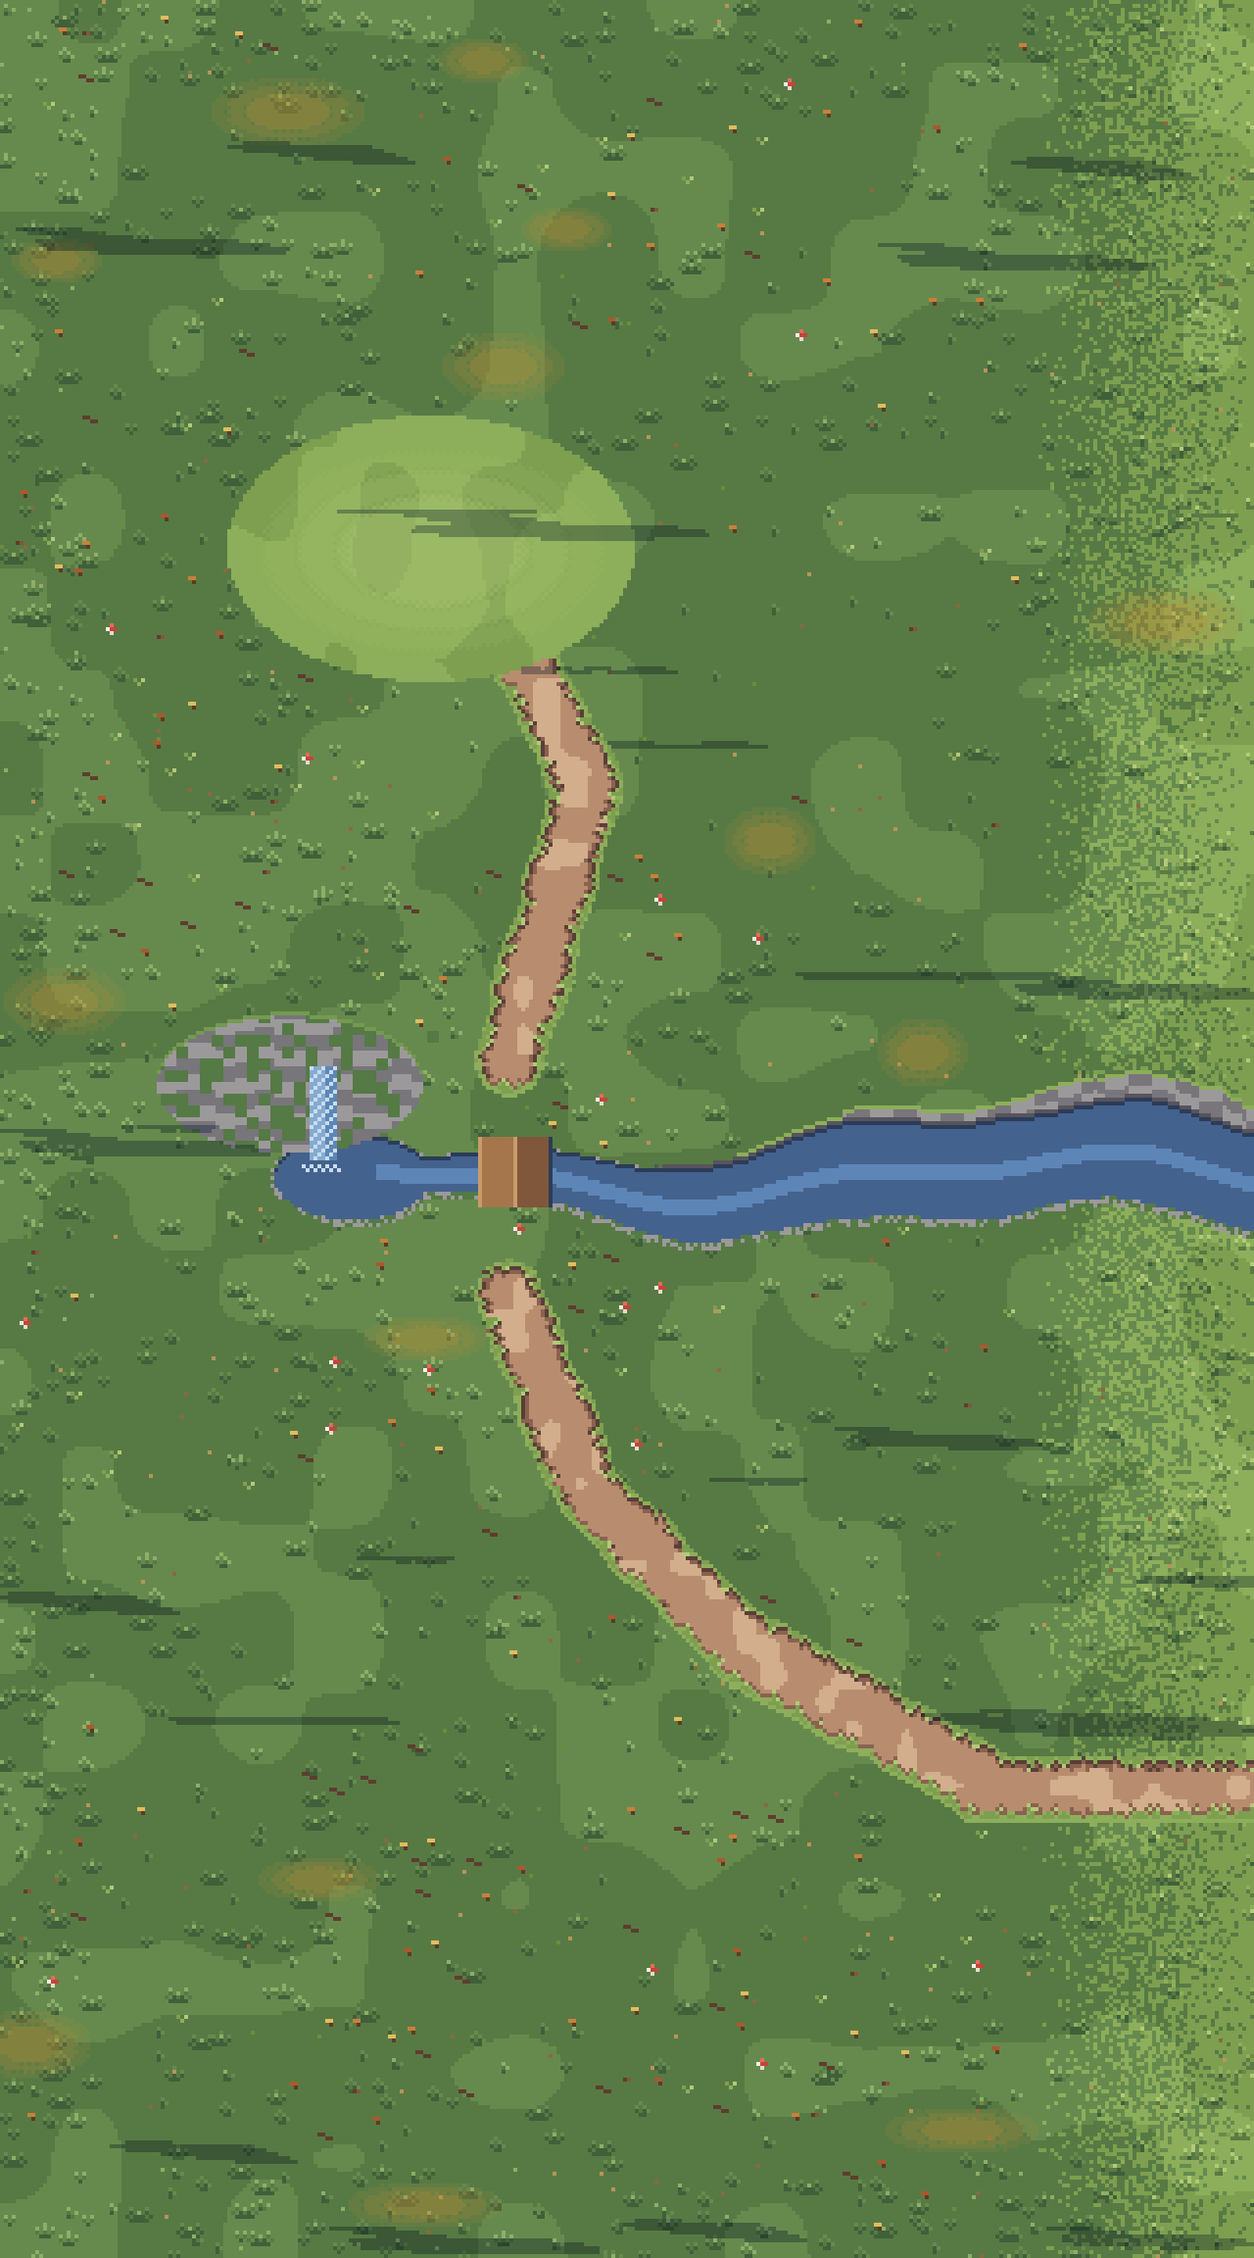
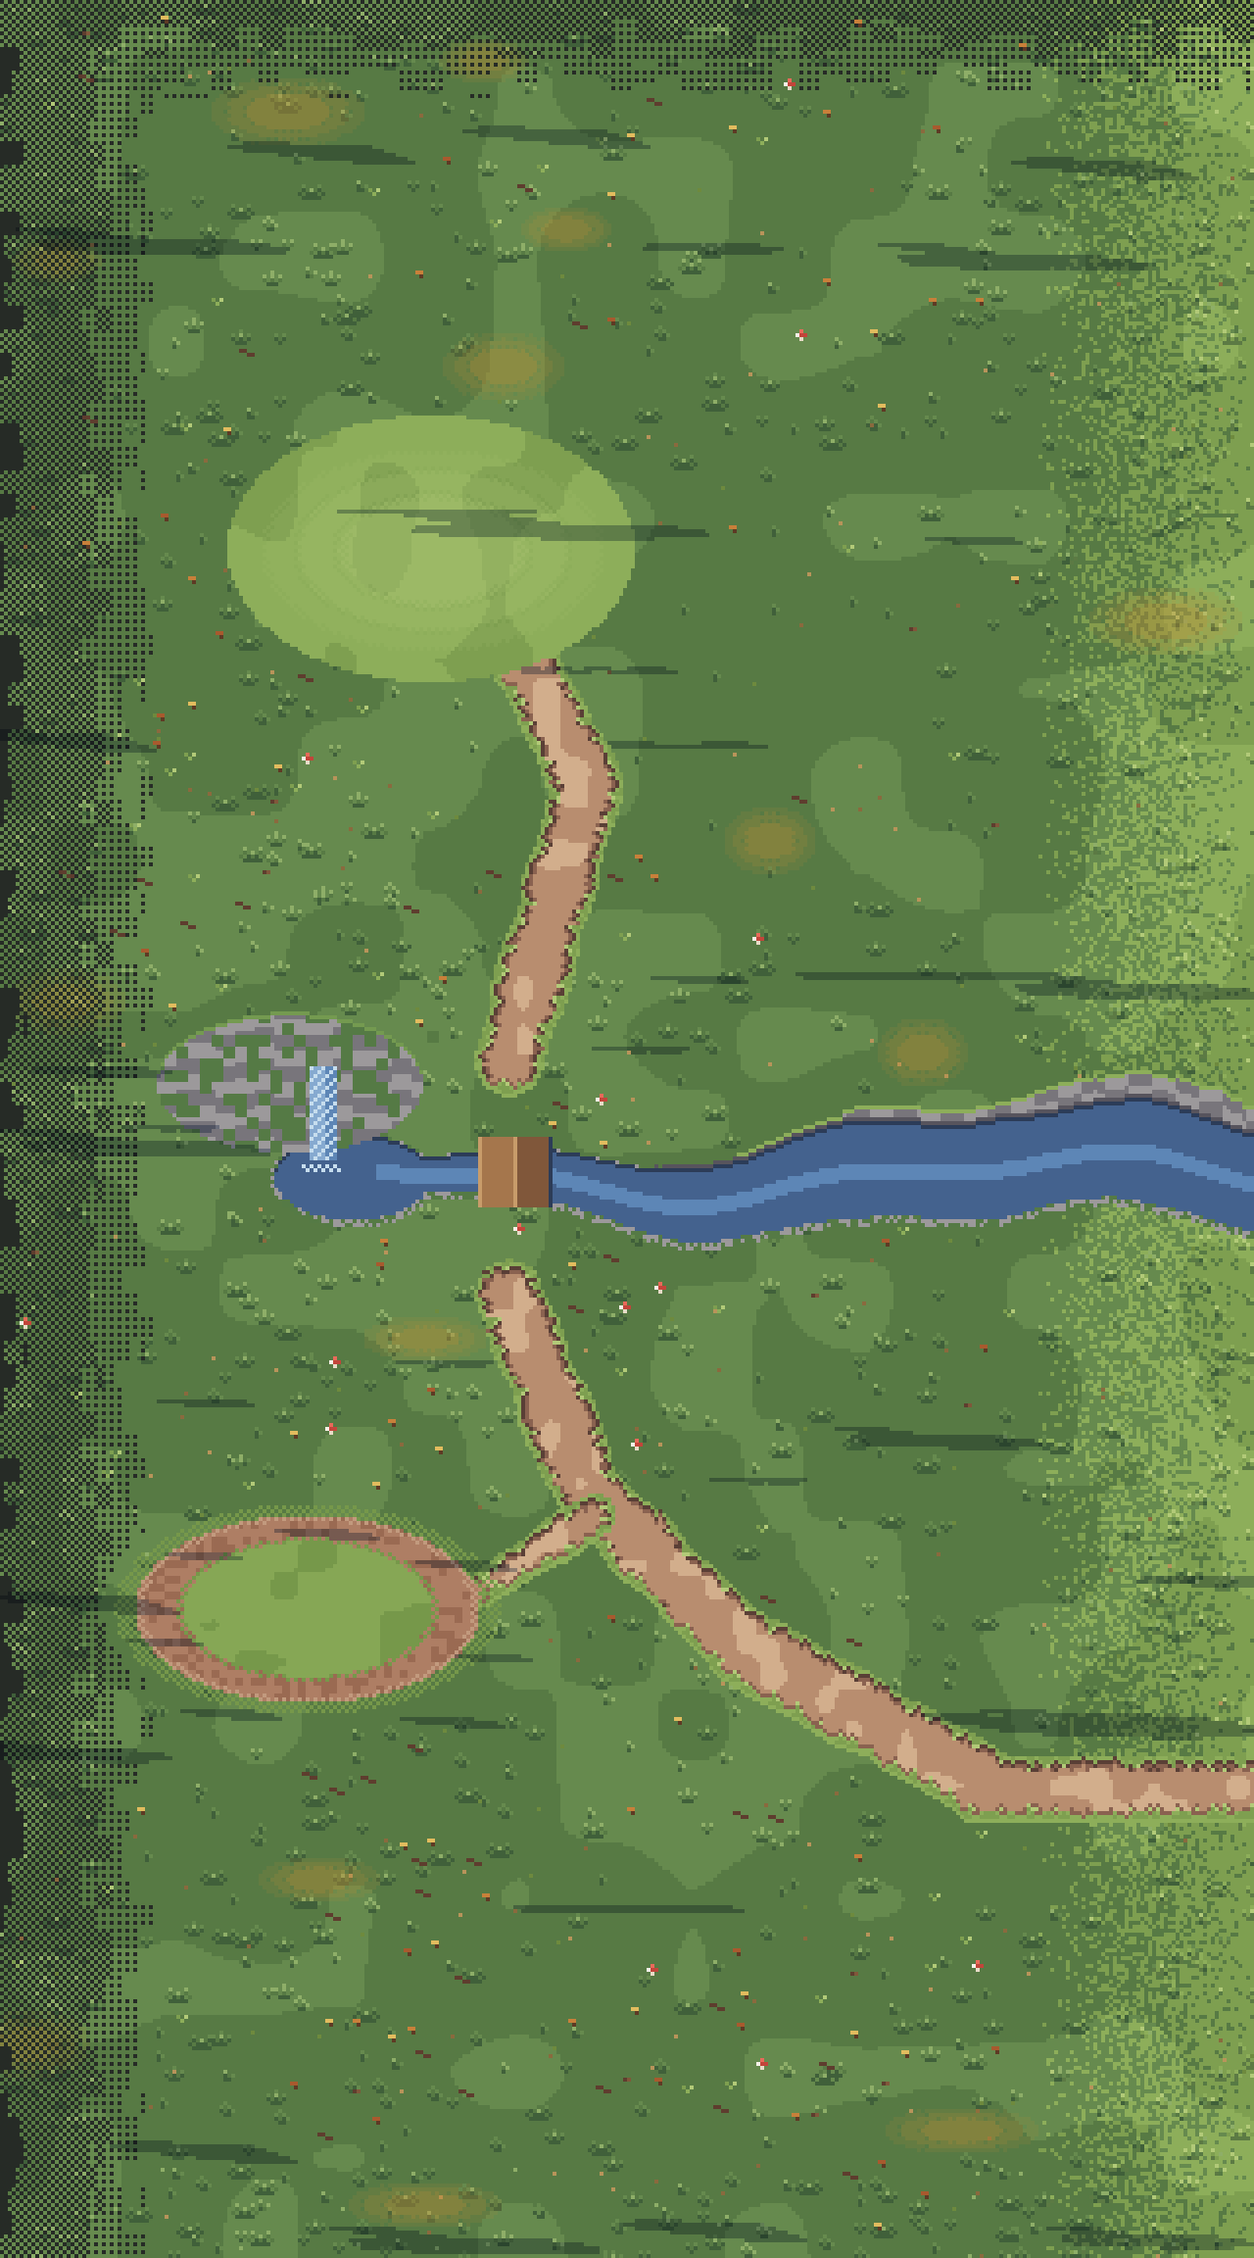
Woodland closes in: dithered forest shade at the outer edges, stumps and pines, and a stone circle in its own glade
Claude-Session: https://claude.ai/code/session_01UudrmtYkicLNgZeuSjvjrK

diff --git a/lib/zone-maps.ts b/lib/zone-maps.ts
@@ -437,6 +437,22 @@ export const zoneMaps: Record<ZoneId, ZoneMap> = {
   },
   woodland: {
     objects: [
+      ['stone-1', 'standing_stone', 69, 362, 17, 29],
+      ['stone-2', 'standing_stone_b', 105, 370, 17, 29],
+      ['stone-3', 'standing_stone_low', 115, 402, 15, 21],
+      ['stone-4', 'standing_stone', 101, 410, 17, 29],
+      ['stone-5', 'standing_stone_b', 45, 408, 17, 29],
+      ['stone-6', 'standing_stone_low', 31, 398, 15, 21],
+      ['stone-7', 'standing_stone_low', 41, 376, 15, 21],
+      ['stump-1', 'stump', 166, 234, 21, 16],
+      ['stump-2', 'stump', 40, 342, 21, 16],
+      ['stump-3', 'stump', 236, 122, 21, 16],
+      ['pine-6', 'pine', -16, 109, 36, 78],
+      ['pine-7', 'pine', 110, -45, 36, 78],
+      ['tree-8', 'tree_small', -24, 376, 43, 69],
+      ['bush-2', 'bush', 4, 248, 32, 25],
+      ['bush-3', 'bush', 160, 38, 32, 25],
+      ['fern-5', 'fern', 151, 258, 24, 10],
       ['tree-1', 'tree', -17, -34, 57, 93],
       ['pine-1', 'pine', 50, -41, 36, 78],
       ['tree-2', 'tree', 203, -30, 57, 93],
@@ -452,11 +468,11 @@ export const zoneMaps: Record<ZoneId, ZoneMap> = {
       ['oak', 'hollow_tree', 74, 31, 71, 100],
       ['ring', 'mushroom_ring', 129, 150, 38, 21],
       ['log-1', 'mossy_log', 201, 233, 54, 16],
-      ['log-2', 'mossy_log', 41, 423, 54, 16],
+      ['log-2', 'mossy_log', 129, 471, 54, 16],
       ['fern-1', 'fern', 31, 278, 24, 10],
       ['fern-2', 'fern', 181, 368, 24, 10],
       ['fern-3', 'fern', 261, 428, 24, 10],
-      ['fern-4', 'fern', 91, 388, 24, 10],
+      ['fern-4', 'fern', 101, 338, 24, 10],
       ['bench', 'forest_bench', 151, 176, 39, 14],
       ['willow', 'willow', 225, 342, 68, 95],
       ['bush-1', 'bush', 286, 378, 32, 25],
@@ -467,17 +483,17 @@ export const zoneMaps: Record<ZoneId, ZoneMap> = {
       '80.',
       '80.',
       '80.',
-      '80.',
-      '13.8#59.',
-      '13.8#42.8#9.',
-      '13.8#42.8#9.',
+      '28.8#44.',
+      '13.8#7.8#44.',
+      '13.8#7.8#27.8#9.',
+      '13.8#7.8#27.8#9.',
       '13.8#42.8#9.',
       '63.8#9.',
       '80.',
       '10#70.',
       '10#41.14#15.',
-      '10#41.14#15.',
-      '51.14#15.',
+      '10#30.8#3.14#15.',
+      '40.8#3.14#15.',
       '80.',
       '80.',
       '80.',
@@ -495,8 +511,8 @@ export const zoneMaps: Record<ZoneId, ZoneMap> = {
       '19.17#44.',
       '19.17#44.',
       '19.17#44.',
-      '80.',
-      '80.',
+      '59.5#16.',
+      '59.5#16.',
       '80.',
       '80.',
       '80.',
@@ -506,9 +522,9 @@ export const zoneMaps: Record<ZoneId, ZoneMap> = {
       '33.8#39.',
       '33.8#39.',
       '80.',
-      '80.',
-      '80.',
-      '38.9#33.',
+      '5#75.',
+      '5#75.',
+      '5#33.9#33.',
       '38.9#33.',
       '80.',
       '80.',
@@ -523,14 +539,14 @@ export const zoneMaps: Record<ZoneId, ZoneMap> = {
       '80.',
       '59.13#8.',
       '51.21#8.',
-      '51.21#8.',
-      '51.21#8.',
+      '42.4#5.21#8.',
+      '42.4#5.21#8.',
       '80.',
       '15.7#58.',
-      '12.13#55.',
-      '11.15#54.',
-      '10.17#53.',
-      '10.17#53.',
+      '12.13#13.5#37.',
+      '1.8#2.15#12.5#37.',
+      '1.8#1.17#53.',
+      '1.8#1.17#53.',
       '9#1.17#53.',
       '27#40.9#4.',
       '26#26.27#1.',
@@ -547,31 +563,33 @@ export const zoneMaps: Record<ZoneId, ZoneMap> = {
       '80.',
       '80.',
       '80.',
+      '26.5#49.',
+      '26.5#49.',
       '80.',
-      '80.',
-      '80.',
-      '50.10#20.',
-      '50.10#20.',
+      '10.5#35.10#20.',
+      '10.5#35.10#20.',
       '50.10#20.',
       '50.10#20.',
       '80.',
       '46.5#29.',
       '46.5#29.',
       '80.',
-      '80.',
-      '80.',
-      '23.5#52.',
-      '6#17.5#44.7#1.',
+      '18.3#59.',
+      '11.3#4.3#59.',
+      '11.3#13.3#50.',
+      '6#5.3#13.3#42.7#1.',
       '6#66.7#1.',
       '6#74.',
       '80.',
-      '80.',
+      '8.3#69.',
+      '8.3#18.3#25.16#7.',
+      '29.3#25.16#7.',
       '57.16#7.',
-      '57.16#7.',
-      '57.16#7.',
-      '57.16#7.',
-      '11.12#34.16#7.',
-      '11.12#34.16#7.',
+      '12.3#42.16#7.',
+      '4#8.3#11.3#28.16#7.',
+      '4#8.3#11.3#28.16#7.',
+      '4#76.',
+      '4#76.',
       '80.',
       '80.',
       '80.',
@@ -580,10 +598,8 @@ export const zoneMaps: Record<ZoneId, ZoneMap> = {
       '80.',
       '80.',
       '80.',
-      '80.',
-      '80.',
-      '80.',
-      '80.',
+      '33.12#35.',
+      '33.12#35.',
       '80.',
       '80.',
       '80.',
@@ -607,7 +623,7 @@ export const zoneMaps: Record<ZoneId, ZoneMap> = {
       '16.14#33.10#7.',
       '80.',
     ].map(unrle),
-    stands: { garden: [304, 456], clearing: [110, 160], spring: [100, 316] },
+    stands: { garden: [304, 456], clearing: [110, 160], spring: [100, 316], stones: [78, 414] },
   },
   park: {
     objects: [

diff --git a/lib/zone-assets.ts b/lib/zone-assets.ts
@@ -168,6 +168,9 @@ import propSkyPlanterB from '@/assets/zones/props/sky_planter_b.png';
 import propSleepPod from '@/assets/zones/props/sleep_pod.png';
 import propSnowyPine from '@/assets/zones/props/snowy_pine.png';
 import propStall from '@/assets/zones/props/stall.png';
+import propStandingStone from '@/assets/zones/props/standing_stone.png';
+import propStandingStoneB from '@/assets/zones/props/standing_stone_b.png';
+import propStandingStoneLow from '@/assets/zones/props/standing_stone_low.png';
 import propStationHouse from '@/assets/zones/props/station_house.png';
 import propSteamPuff from '@/assets/zones/props/steam_puff.png';
 import propSteamerTrunk from '@/assets/zones/props/steamer_trunk.png';
@@ -175,6 +178,7 @@ import propStone from '@/assets/zones/props/stone.png';
 import propStoneLantern from '@/assets/zones/props/stone_lantern.png';
 import propStore from '@/assets/zones/props/store.png';
 import propStreetLight from '@/assets/zones/props/street_light.png';
+import propStump from '@/assets/zones/props/stump.png';
 import propTeaDispenser from '@/assets/zones/props/tea_dispenser.png';
 import propTeaKiosk from '@/assets/zones/props/tea_kiosk.png';
 import propTelescope from '@/assets/zones/props/telescope.png';
@@ -417,6 +421,9 @@ export const zoneProps: Record<string, ImageSourcePropType> = {
   sleep_pod: propSleepPod,
   snowy_pine: propSnowyPine,
   stall: propStall,
+  standing_stone: propStandingStone,
+  standing_stone_b: propStandingStoneB,
+  standing_stone_low: propStandingStoneLow,
   station_house: propStationHouse,
   steam_puff: propSteamPuff,
   steamer_trunk: propSteamerTrunk,
@@ -424,6 +431,7 @@ export const zoneProps: Record<string, ImageSourcePropType> = {
   stone_lantern: propStoneLantern,
   store: propStore,
   street_light: propStreetLight,
+  stump: propStump,
   tea_dispenser: propTeaDispenser,
   tea_kiosk: propTeaKiosk,
   telescope: propTelescope,

diff --git a/scripts/art/zones.py b/scripts/art/zones.py
@@ -2802,15 +2802,55 @@ def woodland(frame: int = 0):
         lx, ly = int(noise2(i, 0, 426) * W), int(noise2(i, 1, 426) * H)
         light_pool(cv, lx, ly, 12 + i % 3 * 4, 6 + i % 2 * 3, GOLDm[2], water)
     light_pool(cv, 110, 140, 44, 26, G[4], water)
+    # the stone circle in its own small clearing: a ring of reddish trodden earth round
+    # muted grass, the stones standing in it (the reference Matt chose as the bar)
+    SX, SY, SRX, SRY = 78, 410, 44, 24
+    spur = worlds.thick([(152, 386), (118, 408)], 5, seed=27)
+    paint_road(cv, spur)
+    for (x, y) in oval(SX, SY, SRX + 8, SRY + 6):
+        d = math.hypot((x - SX) / SRX, (y - SY) / SRY)
+        if d < 0.72:
+            n = smooth_noise(x, y, 9, 428)
+            cv.set(x, y, '#86A755' if n > 0.42 else '#76984A')
+        elif d < 1.0:
+            n = noise2(x // 2, y // 2, 429)
+            c = '#AE7E64' if n > 0.35 else '#9A6A52'
+            if d < 0.76 and (x + y) % 2:
+                c = '#76984A'  # the grass fraying onto the earth
+            if d > 0.95 and (x + y) % 2:
+                c = '#C29A7E'
+            cv.set(x, y, c)
+        elif d < 1.12 and (x + y) % 2 == 0:
+            cv.set(x, y, '#76984A')
+    # where the canopy closes in at the outer edges, the floor goes into deep shade
+    # (checker dithering toward FOREST_DARK, style rule 9); the path and the water stay lit
+    keep = set(path) | water | rock | set(clearing) | set(oval(SX, SY, SRX + 8, SRY + 6))
+    for y in range(H):
+        for x in range(W):
+            if (x, y) in keep:
+                continue
+            d = min(x + noise2(x // 6, y // 6, 430) * 10, y + 14 + noise2(x // 6, y // 6, 431) * 10)
+            s = 1 - d / 44
+            if s >= 0.85 or (s >= 0.6 and ((x + y) % 2 == 0 or (x % 2 == 0 and y % 2 == 0))) \
+                    or (s >= 0.35 and (x + y) % 2 == 0) or (s >= 0.12 and x % 2 == 0 and y % 2 == 0):
+                cv.set(x, y, style.FOREST_DARK)
     objects = [
+        # the stone circle
+        ('stone-1', 'standing_stone', SX - 10, SY - SRY - 26), ('stone-2', 'standing_stone_b', SX + 26, SY - SRY - 18),
+        ('stone-3', 'standing_stone_low', SX + SRX - 8, SY - 10), ('stone-4', 'standing_stone', SX + 22, SY + SRY - 26),
+        ('stone-5', 'standing_stone_b', SX - 34, SY + SRY - 28), ('stone-6', 'standing_stone_low', SX - SRX - 4, SY - 14),
+        ('stone-7', 'standing_stone_low', SX - 38, SY - SRY - 12),
+        ('stump-1', 'stump', 166, 232), ('stump-2', 'stump', 40, 340), ('stump-3', 'stump', 236, 120),
+        ('pine-6', 'pine', -16, 110), ('pine-7', 'pine', 110, -44), ('tree-8', 'tree_small', -26, 380),
+        ('bush-2', 'bush', 4, 250), ('bush-3', 'bush', 160, 40), ('fern-5', 'fern', 150, 250),
         # old trees closing in round the edges (none crosses the east border into the garden)
         ('tree-1', 'tree', -20, -30), ('pine-1', 'pine', 50, -40), ('tree-2', 'tree', 200, -26), ('pine-2', 'pine', 250, -36),
         ('tree-3', 'tree', -24, 200), ('pine-3', 'pine', -10, 330), ('tree-4', 'tree', 230, 160),
         ('tree-5', 'tree_small', 196, 300), ('pine-4', 'pine', 20, 470), ('tree-6', 'tree', 60, 480),
         ('pine-5', 'pine', 150, 490), ('tree-7', 'tree_small', 250, 504),
         ('oak', 'hollow_tree', 70, 30), ('ring', 'mushroom_ring', 128, 150), ('log-1', 'mossy_log', 200, 230),
-        ('log-2', 'mossy_log', 40, 420), ('fern-1', 'fern', 30, 270), ('fern-2', 'fern', 180, 360),
-        ('fern-3', 'fern', 260, 420), ('fern-4', 'fern', 90, 380), ('bench', 'forest_bench', 150, 170),
+        ('log-2', 'mossy_log', 128, 468), ('fern-1', 'fern', 30, 270), ('fern-2', 'fern', 180, 360),
+        ('fern-3', 'fern', 260, 420), ('fern-4', 'fern', 100, 330), ('bench', 'forest_bench', 150, 170),
         ('willow', 'willow', 220, 340), ('bush-1', 'bush', 286, 380),
     ]
     # a split-log footbridge where the path crosses the young stream
@@ -2819,7 +2859,8 @@ def woodland(frame: int = 0):
         cv.set(x, y, WOOD[4] if x in (122, 131) else WOOD[3] if x < 131 else WOOD[2])
     for y in range(min(yy for _, yy in plank), max(yy for _, yy in plank) + 1):
         cv.set(140, y, WTRm[0])
-    stands = {'garden': (304, meadow.ORCHARD_WALK_Y), 'clearing': (110, 160), 'spring': (100, int(centre(96)) + 18)}
+    stands = {'garden': (304, meadow.ORCHARD_WALK_Y), 'clearing': (110, 160), 'spring': (100, int(centre(96)) + 18),
+              'stones': (SX, SY + 4)}
     return cv, objects, stands, (water | rock) - plank
 
 

diff --git a/scripts/art/valley_props.py b/scripts/art/valley_props.py
@@ -552,6 +552,52 @@ def beehive() -> Canvas:
         cv.set(bx, by, GOLD[4]); cv.set(bx + 1, by, '#2A2226')
     return cv
 
+MEGALITH = ['#3A3446', '#585068', '#787088', '#9A92A8', '#C2BACC']  # grey-purple standing stone
+
+
+def standing_stone(seed: int = 0, tall: bool = True) -> Canvas:
+    """An old standing stone, 18 x 30 (or 16 x 22): a weathered grey-purple slab, its top
+    rounded and a little skewed, lit on its upper-left plane, shaded on its right flank,
+    with a moss cap that drips down its face (style.facet_stone, as in the references)."""
+    w, h = (18, 30) if tall else (16, 22)
+    cv = Canvas(w, h, pad=PAD)
+    lean = (noise2(seed, 0, 431) - 0.5) * 0.25
+    pts = set()
+    for y in range(2, h - 1):
+        f = (y - 2) / (h - 3)
+        half = (w / 2 - 3) * (0.5 + 0.5 * min(1.0, f * 1.4)) + (1 if y > h - 4 else 0)
+        cx = w / 2 + lean * (h - y)
+        for x in range(int(cx - half), int(cx + half) + 1):
+            if f < 0.18 and ((x - cx) / half) ** 2 + ((0.18 - f) / 0.18) ** 2 > 1:
+                continue  # the rounded top
+            pts.add((x, y))
+    style.facet_stone(cv, pts, MEGALITH, moss=LEAF, seed=seed + 40)
+    cv.hline(int(w / 2 - 5), h - 1, 10, MATERIALS['leaf'][1])  # grass at its foot
+    return cv
+
+
+def stump() -> Canvas:
+    """An old tree stump, 22 x 18: a lit ring-cut top, bark sides shaded right, roots
+    reaching into the moss, and a cluster of small brown mushrooms."""
+    w, h = 22, 18
+    cv = Canvas(w, h, pad=PAD)
+    for y in range(6, h - 2):
+        for x in range(4, 18):
+            k = (x - 4) / 14
+            cv.set(x, y, WOOD[3] if k < 0.3 else WOOD[2] if k < 0.75 else WOOD[1])
+            if (x * 3 + y) % 7 == 0:
+                cv.set(x, y, WOOD[1])  # bark furrows
+    for (x, y) in oval(11, 6, 7, 3):
+        d = math.hypot((x - 11) / 7, (y - 6) / 3)
+        cv.set(x, y, WOOD[4] if d > 0.8 else '#E2C08A' if int(d * 4) % 2 else '#C8A070')  # rings
+    for (x0, dx) in ((4, -1), (17, 1)):
+        for t in range(4):
+            cv.set(x0 + dx * t, h - 3 + (t > 1), WOOD[2] if dx < 0 else WOOD[1])  # roots
+    for (mx, my) in ((16, 13), (18, 15), (14, 15)):
+        cv.set(mx, my, '#B8794A'); cv.set(mx + 1, my, '#8E5A36'); cv.set(mx, my + 1, '#E8DCC8')
+    return cv
+
+
 def props() -> dict[str, Canvas]:
     return {
         'barn': barn(), 'haystack': haystack(), 'scarecrow': scarecrow(), 'windmill': windmill(),
@@ -560,7 +606,8 @@ def props() -> dict[str, Canvas]:
         'mossy_log': mossy_log(), 'mushroom_ring': mushroom_ring(), 'hollow_tree': hollow_tree(), 'fern': fern(),
         'forest_bench': forest_bench(), 'bandstand': bandstand(), 'ice_cream_cart': ice_cream_cart(),
         'snowy_pine': snowy_pine(), 'frozen_tarn': frozen_tarn(), 'station_house': station_house(),
-        'semaphore': semaphore(),
+        'semaphore': semaphore(), 'standing_stone': standing_stone(0, True), 'standing_stone_b': standing_stone(3, True),
+        'standing_stone_low': standing_stone(6, False), 'stump': stump(),
     }
 
 

diff --git a/docs/vision/world-atlas.md b/docs/vision/world-atlas.md
@@ -84,7 +84,7 @@ Every journey now leaves from a drawn stop: the valley train from Valley Halt, t
 
 **How borders meet.** No prop crosses a border with a neighbour (the generator fails if one does; a tall prop may rise up to 48 px over a north border only where nothing stands in the zone behind). Every door faces open, reachable ground with nothing standing in front of it (also checked). A road that crosses a border keeps its x (or y) and width and is painted on past the edge, so neither side draws a turf edge there (`paint_road` and the garden's path painter both treat pixels beyond the edge as road). Water, banks and bluffs continue on the same line (the Riverside and the Woodland reuse the garden's stream function with an x offset). Where the ground differs, the side that changes dithers into its neighbour's ground over the last 56 pixels (the Woodland's forest floor into the garden's grass).
 
-**Middle-distance detail (18 Oct).** Open ground between the landmarks gets things at the scale of the companion, each belonging to its place: old pahoehoe flows cooled flat on the ash (rope ridges bowed downstream, lit lip, round toes), fallen basalt scree and charred snags with one crack still glowing in the caldera and the springs; an old gold-foil lander with its short tracks, a natural rock arch you walk through and boulder fields on Lumen; acacias, tamarisk scrub and sandstone outcrops on the oasis dunes. The Skyport's plaza got a still reflecting pool under the platform, a compass rose inlaid in the concourse, a flower kiosk under the guideway and planter beds by the quay. Small decals (dress) stay for the near scale; landmarks stay the far scale.
+**Middle-distance detail (18 Oct).** Open ground between the landmarks gets things at the scale of the companion, each belonging to its place: old pahoehoe flows cooled flat on the ash (rope ridges bowed downstream, lit lip, round toes), fallen basalt scree and charred snags with one crack still glowing in the caldera and the springs; an old gold-foil lander with its short tracks, a natural rock arch you walk through and boulder fields on Lumen; acacias, tamarisk scrub and sandstone outcrops on the oasis dunes. The Skyport's plaza got a still reflecting pool under the platform, a compass rose inlaid in the concourse, a flower kiosk under the guideway and planter beds by the quay. The Woodland now closes in like a forest: the floor goes into dithered deep shade at its outer edges, with more pines, stumps and bushes, and a stone circle stands in its own glade (moss-capped grey-purple stones on a ring of reddish trodden earth, after the reference Matt chose as the bar). Small decals (dress) stay for the near scale; landmarks stay the far scale.
 
 ## A world that feels alive
 
